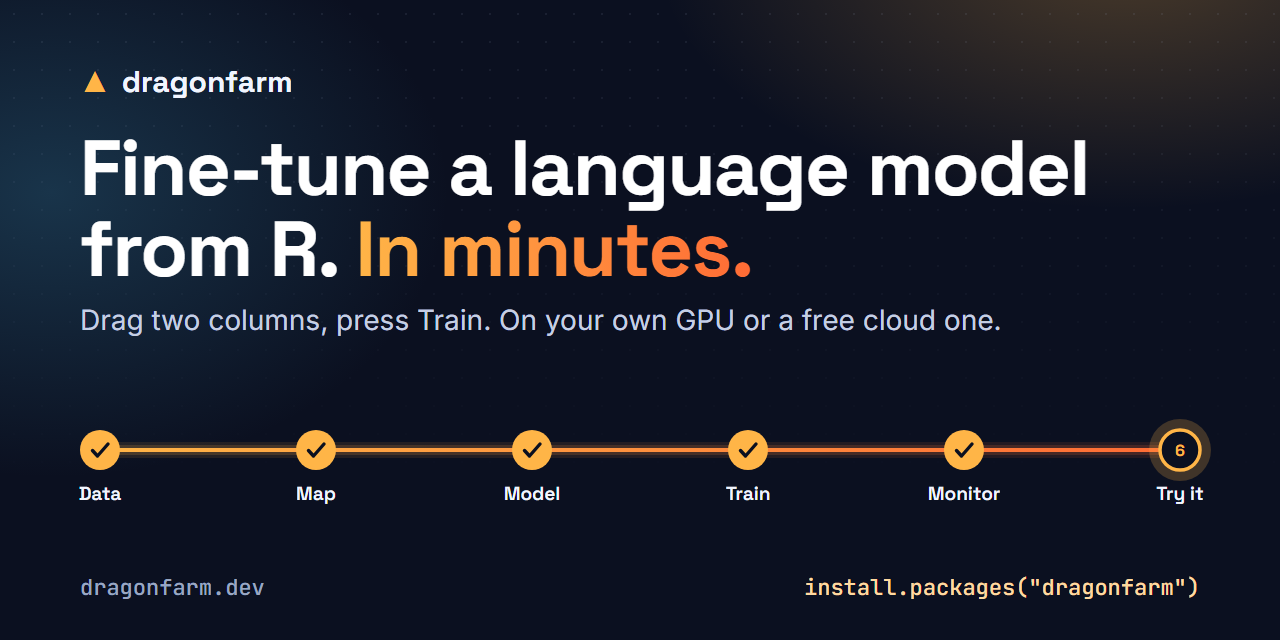
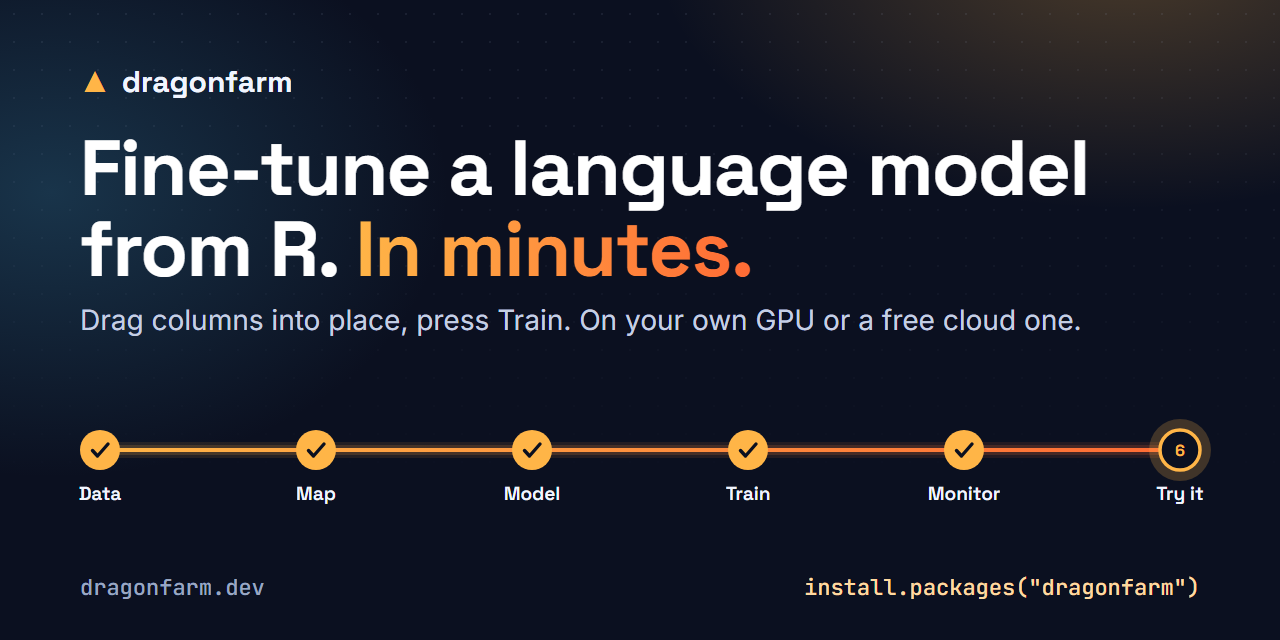
Stop saying "two columns": the Map step takes any number
Prompt and Response each accept one or more columns (several in a slot are
joined with a blank line) and System is optional; the demo itself drags
three. Reword the hero, the code card, the stepper label, the README, the
banner, the social card, and the GIF header, and regenerate the images.

Changed region(s): [[0.125, 0.4688, 0.8438, 0.5312]]

diff --git a/pkgdown/extra.js b/pkgdown/extra.js
@@ -47,7 +47,7 @@
     var cap = document.getElementById("df-cap");
     var captions = [
       "Load a table, or start from the example tickets.",
-      "Drag columns into the Prompt and Response slots.",
+      "Drag one or more columns into the Prompt and Response slots.",
       "Pick a base model and check your GPU.",
       "Set a few numbers and press Start training.",
       "Watch the loss curve while it trains.",

diff --git a/pkgdown/assets/df-pipeline.js b/pkgdown/assets/df-pipeline.js
@@ -15,7 +15,7 @@
 })(typeof self !== "undefined" ? self : this, function () {
   var STEPS = [
     { n: 1, name: "Data", sub: "Load a table" },
-    { n: 2, name: "Map", sub: "Drag two columns" },
+    { n: 2, name: "Map", sub: "Drag columns into slots" },
     { n: 3, name: "Model", sub: "Pick a base model" },
     { n: 4, name: "Train", sub: "Press start" },
     { n: 5, name: "Monitor", sub: "Watch the loss" },

diff --git a/pkgdown/index.md b/pkgdown/index.md
@@ -3,7 +3,7 @@
 <div class="df-wrap">
 <p class="df-eyebrow"><span class="df-dot"></span>R package · on CRAN · MIT licensed</p>
 <h1 class="df-h1">Fine-tune a language model<br>from R. <span class="df-grad">In minutes.</span></h1>
-<p class="df-lede">Drop in a table, drag two columns into place, press Train. dragonfarm teaches a small model your format and your domain, on your own GPU or a free cloud one.</p>
+<p class="df-lede">Drop in a table, drag its columns into Prompt and Response, press Train. dragonfarm teaches a small model your format and your domain, on your own GPU or a free cloud one.</p>
 <div class="df-cta">
 <div class="df-install"><code>install.packages(&quot;dragonfarm&quot;)</code><button class="df-copy" type="button" data-copy="install.packages(&quot;dragonfarm&quot;)">Copy</button></div>
 <a class="df-btn df-btn-primary" href="articles/quickstart.html">Get started</a>
@@ -45,7 +45,7 @@
 <h2 class="df-h2">Start where you're comfortable.</h2>
 <p class="df-sub">Everything the app does is also an R function, and every run is a plain folder of files you can inspect.</p>
 <div class="df-grid3 df-ways">
-<div class="df-card"><span class="df-tag">Code</span><h3>Five lines</h3><p>Map two columns, train, generate.</p>
+<div class="df-card"><span class="df-tag">Code</span><h3>Five lines</h3><p>Map your columns, train, generate.</p>
 <pre><code>library(dragonfarm)
 run &lt;- dragon_dataset(dragon_example_data()) |&gt;
   dragon_map(prompt = "{subject}\n\n{body}",

diff --git a/README.md b/README.md
@@ -17,7 +17,9 @@ The app walks through six numbered steps, the same ones as in the GIF:
 
 1. **Data**: load a table (CSV, TSV, JSON, JSONL, or Parquet, which needs the
    `arrow` package) or the example tickets.
-2. **Map**: drag columns into the Prompt and Response slots.
+2. **Map**: drag one or more columns into the Prompt and Response slots.
+   Several columns in one slot are joined with a blank line, and a System
+   slot is optional.
 3. **Model**: pick a base model and check your GPU.
 4. **Train**: set a few numbers and press Start training, or send the run to a
    cloud GPU.
